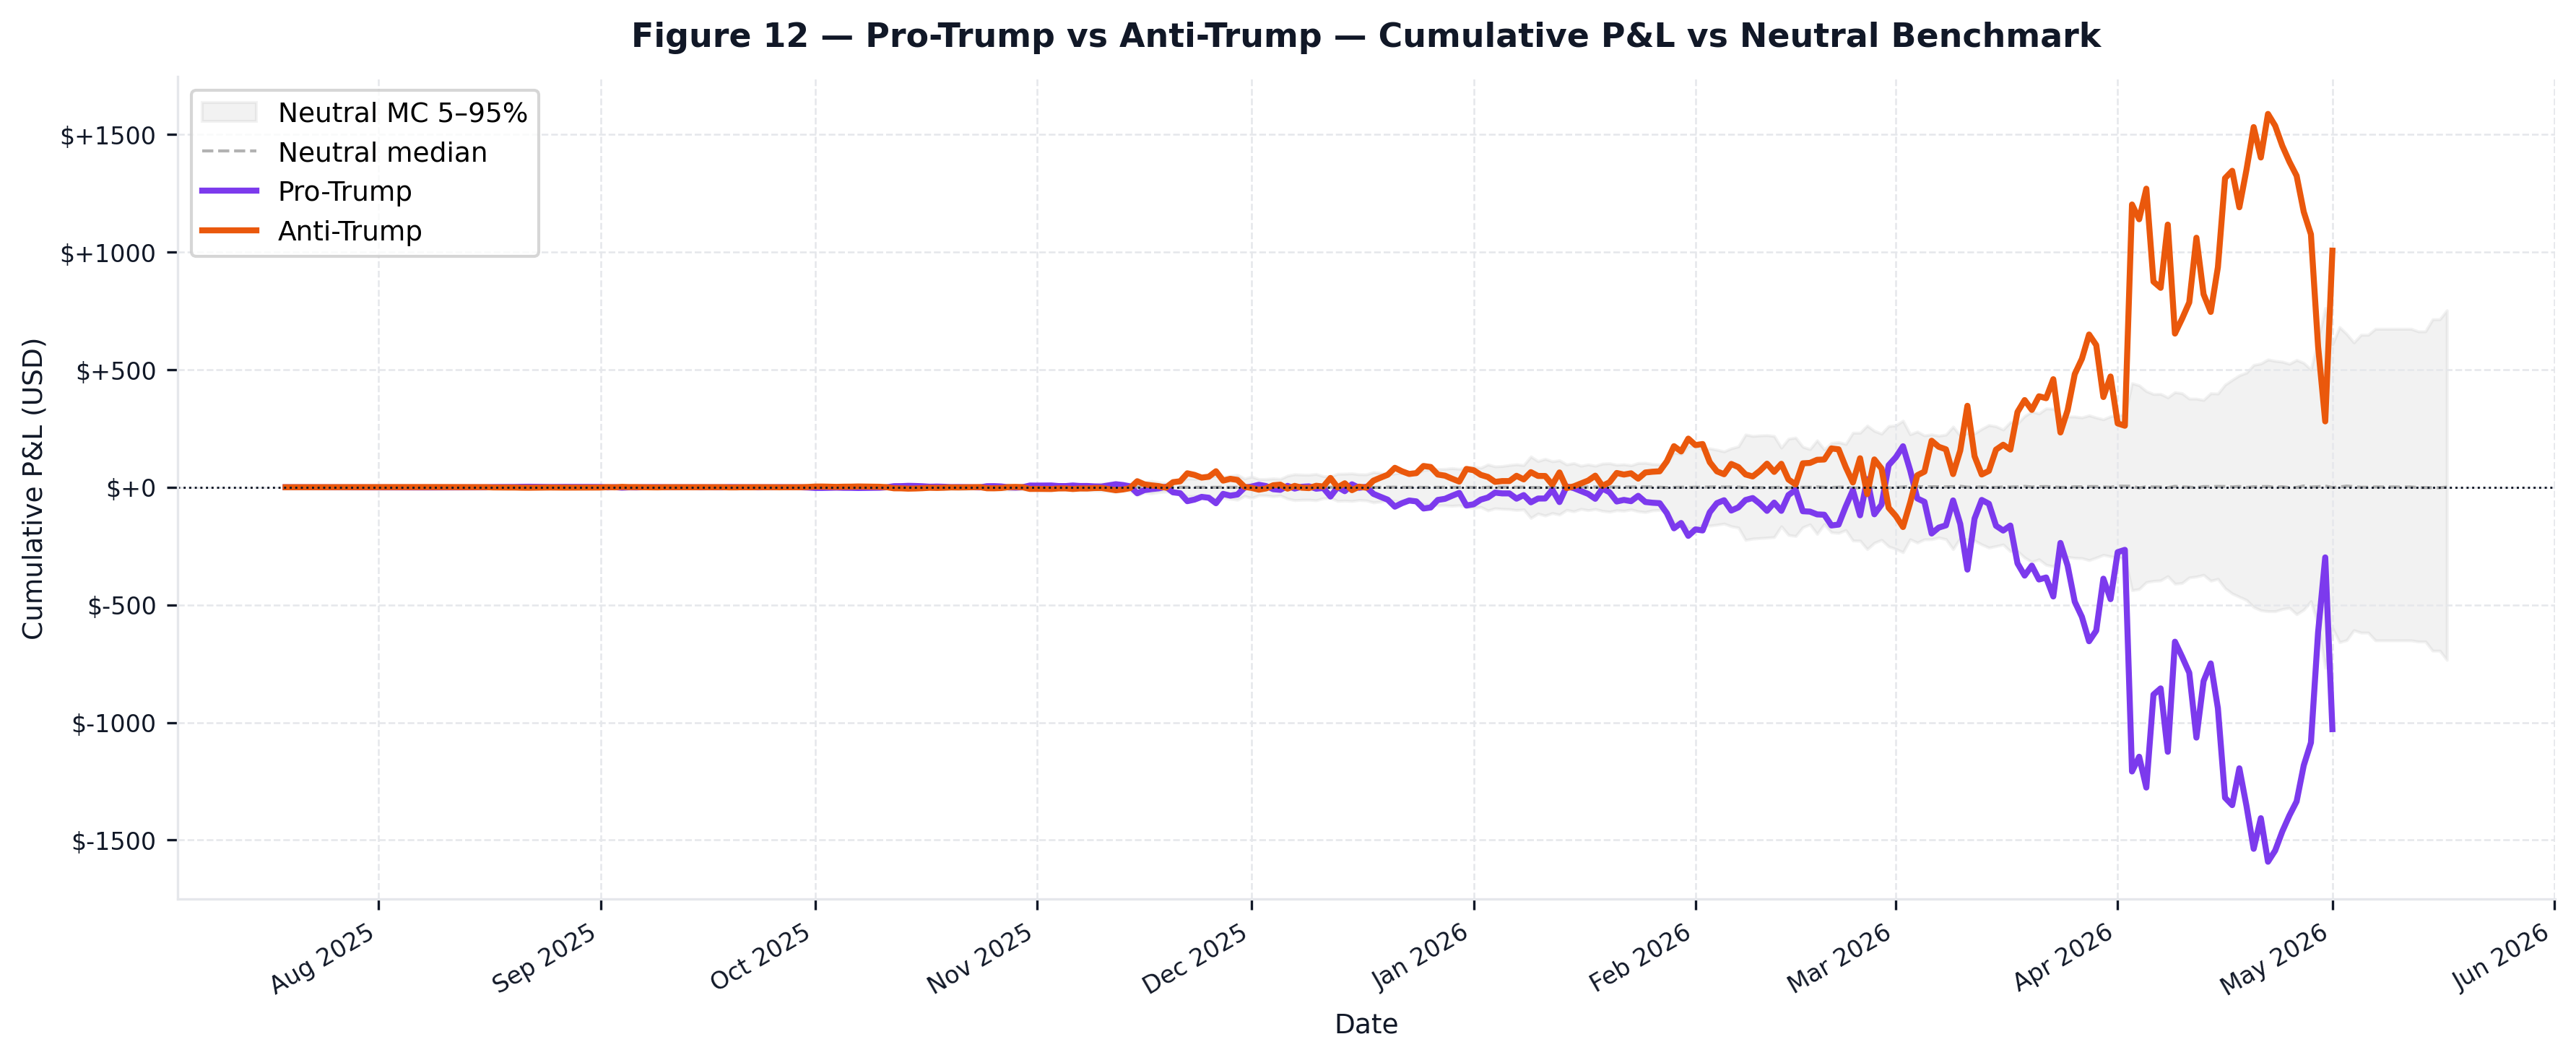
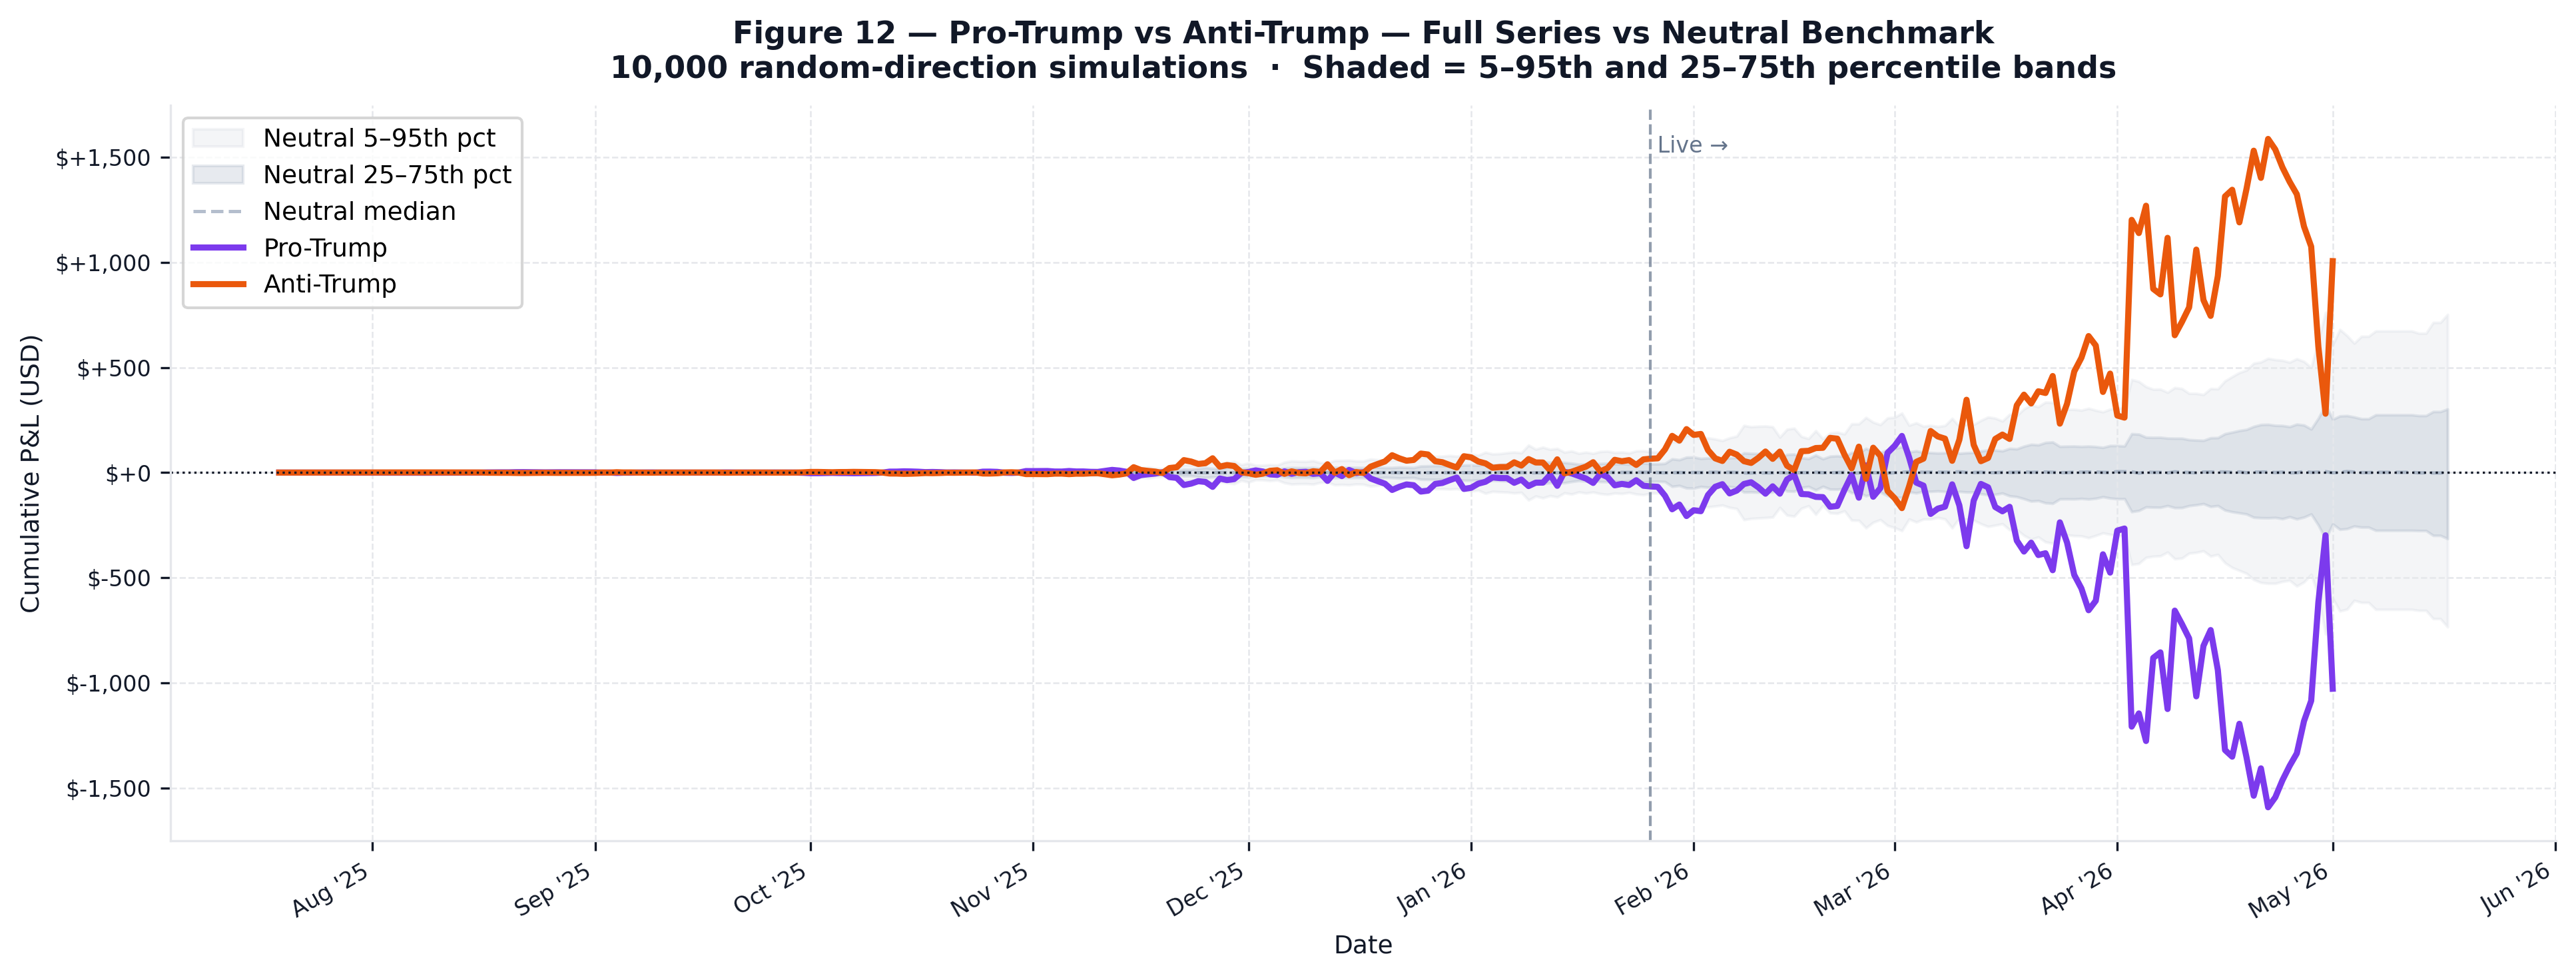
Add full-series combined MC chart and neutral strategy stats to MC tab
- fig12 now shows both pro-Trump and anti-Trump full series (287 days)
  against the neutral benchmark fan with 5-95th and 25-75th bands,
  prospective divider, and improved formatting
- Export mc_neutral_summary.csv: avg final P&L, median, P5/P95
- API exposes mc_avg_final_pnl, mc_median_final_pnl, mc_p5/p95_final_pnl
- MC tab now shows the combined fig12 chart plus two rows of stat tiles:
  directional strategy stats and neutral benchmark averages

diff --git a/frontend/src/pages/Analysis.jsx b/frontend/src/pages/Analysis.jsx
@@ -1107,37 +1107,71 @@ export default function Analysis() {
             </div>
           </Card>
 
-          {/* Static stats tiles */}
+          {/* Strategy stats tiles */}
           {mcBenchmark && (
-            <div className="grid grid-cols-2 sm:grid-cols-4 gap-3">
-              <MetricTile
-                label="Pro-Trump Mean Return"
-                value={fmtPct(mcBenchmark.pro_mean_pct, 4)}
-                sub="Actual daily mean"
-                color={mcBenchmark.pro_mean_pct >= 0 ? C_GAIN : C_LOSS}
-                formula="mean of daily_return for 96-day prospective series"
-              />
-              <MetricTile
-                label="Anti-Trump Mean Return"
-                value={fmtPct(mcBenchmark.anti_mean_pct, 4)}
-                sub="Counterfactual daily mean"
-                color={mcBenchmark.anti_mean_pct >= 0 ? C_GAIN : C_LOSS}
-                formula="same trades, flipped YES↔NO direction"
-              />
-              <MetricTile
-                label="Pro-Trump Percentile"
-                value={`${mcBenchmark.pct_rank.toFixed(1)}th`}
-                sub={`of ${mcBenchmark.n_sims.toLocaleString()} neutral sims`}
-                color={mcBenchmark.pct_rank <= 5 ? C_LOSS : "#111827"}
-                formula="% of neutral sims with lower mean return"
-              />
-              <MetricTile
-                label="Anti-Trump Percentile"
-                value={mcBenchmark.anti_pct_rank != null ? `${mcBenchmark.anti_pct_rank.toFixed(1)}th` : "—"}
-                sub={`of ${mcBenchmark.n_sims.toLocaleString()} neutral sims`}
-                color={mcBenchmark.anti_pct_rank >= 95 ? C_GAIN : "#111827"}
-                formula="% of neutral sims with lower mean return"
-              />
+            <div className="space-y-3">
+              <p className="text-xs font-semibold text-slate-500 uppercase tracking-wide">Directional Strategies (96-day prospective series)</p>
+              <div className="grid grid-cols-2 sm:grid-cols-4 gap-3">
+                <MetricTile
+                  label="Pro-Trump Mean Return"
+                  value={fmtPct(mcBenchmark.pro_mean_pct, 4)}
+                  sub="Daily mean · prospective"
+                  color={mcBenchmark.pro_mean_pct >= 0 ? C_GAIN : C_LOSS}
+                  formula="mean of daily_return for 96-day prospective series"
+                />
+                <MetricTile
+                  label="Anti-Trump Mean Return"
+                  value={fmtPct(mcBenchmark.anti_mean_pct, 4)}
+                  sub="Daily mean · prospective"
+                  color={mcBenchmark.anti_mean_pct >= 0 ? C_GAIN : C_LOSS}
+                  formula="same trades, flipped YES↔NO direction"
+                />
+                <MetricTile
+                  label="Pro-Trump Percentile"
+                  value={`${mcBenchmark.pct_rank.toFixed(1)}th`}
+                  sub={`of ${mcBenchmark.n_sims.toLocaleString()} neutral sims`}
+                  color={mcBenchmark.pct_rank <= 5 ? C_LOSS : "#111827"}
+                  formula="% of neutral sims with lower mean return"
+                />
+                <MetricTile
+                  label="Anti-Trump Percentile"
+                  value={mcBenchmark.anti_pct_rank != null ? `${mcBenchmark.anti_pct_rank.toFixed(1)}th` : "—"}
+                  sub={`of ${mcBenchmark.n_sims.toLocaleString()} neutral sims`}
+                  color={mcBenchmark.anti_pct_rank >= 95 ? C_GAIN : "#111827"}
+                  formula="% of neutral sims with lower mean return"
+                />
+              </div>
+              <p className="text-xs font-semibold text-slate-500 uppercase tracking-wide pt-1">Neutral Benchmark Average (across {mcBenchmark.n_sims.toLocaleString()} simulations)</p>
+              <div className="grid grid-cols-2 sm:grid-cols-4 gap-3">
+                <MetricTile
+                  label="Neutral Mean Daily Return"
+                  value={fmtPct(mcBenchmark.mc_mean * 100, 4)}
+                  sub="Avg across all neutral sims"
+                  color="#111827"
+                  formula="mean of mean_return_sim across 10,000 simulations"
+                />
+                <MetricTile
+                  label="Neutral Avg Final P&L"
+                  value={mcBenchmark.mc_avg_final_pnl != null ? `$${mcBenchmark.mc_avg_final_pnl.toFixed(2)}` : "—"}
+                  sub="Avg cumulative P&L at end"
+                  color={mcBenchmark.mc_avg_final_pnl >= 0 ? C_GAIN : C_LOSS}
+                  formula="mean of final P&L across 10,000 simulations"
+                />
+                <MetricTile
+                  label="Neutral P5 Final P&L"
+                  value={mcBenchmark.mc_p5_final_pnl != null ? `$${mcBenchmark.mc_p5_final_pnl.toFixed(2)}` : "—"}
+                  sub="5th percentile outcome"
+                  color={C_LOSS}
+                  formula="5th percentile of final P&L across 10,000 simulations"
+                />
+                <MetricTile
+                  label="Neutral P95 Final P&L"
+                  value={mcBenchmark.mc_p95_final_pnl != null ? `$${mcBenchmark.mc_p95_final_pnl.toFixed(2)}` : "—"}
+                  sub="95th percentile outcome"
+                  color={C_GAIN}
+                  formula="95th percentile of final P&L across 10,000 simulations"
+                />
+              </div>
             </div>
           )}
 
@@ -1206,7 +1240,24 @@ export default function Analysis() {
             </Card>
           )}
 
-          {/* Precomputed figures — Pro-Trump and Anti-Trump side by side */}
+          {/* Combined full-series chart — both strategies vs MC fan */}
+          {figures.find((f) => f.filename === "fig12_strategy_comparison.png")?.exists && (
+            <Card className="overflow-hidden">
+              <div className="p-4 border-b border-slate-100">
+                <p className="text-sm font-semibold text-slate-700">Full Series — Pro-Trump &amp; Anti-Trump vs Neutral Benchmark</p>
+                <p className="text-xs text-slate-400 mt-0.5">
+                  Both strategies plotted against the 10,000-simulation neutral fan (5–95th and 25–75th percentile bands) across the full 287-day observation window.
+                </p>
+              </div>
+              <img
+                src={getAnalysisFigureUrl("fig12_strategy_comparison.png")}
+                alt="Full series both strategies vs neutral benchmark"
+                className="w-full object-contain"
+              />
+            </Card>
+          )}
+
+          {/* Per-strategy MC benchmark figures */}
           {figures.some((f) => (f.filename === "fig11_mc_benchmark.png" || f.filename === "fig11_mc_benchmark_anti.png") && f.exists) && (
             <div className="space-y-4">
               {figures.find((f) => f.filename === "fig11_mc_benchmark.png")?.exists && (

diff --git a/backend/analysis/run_analysis.py b/backend/analysis/run_analysis.py
@@ -1349,30 +1349,40 @@ def fig11_mc_benchmark(mean_return_sims, dr_sims, r_strategy, date_range_mc, pct
     save_fig(fig, filename)
 
 
-def fig12_strategy_comparison(curve_pro, curve_anti, pnl_sims_mc, date_range):
-    fig, ax = plt.subplots(figsize=(12, 5))
+def fig12_strategy_comparison(curve_pro, curve_anti, pnl_sims_mc, date_range, prosp_start=None):
+    fig, ax = plt.subplots(figsize=(13, 5))
 
     dr = pd.to_datetime(date_range)
     p5  = np.percentile(pnl_sims_mc, 5,  axis=0)
+    p25 = np.percentile(pnl_sims_mc, 25, axis=0)
+    p75 = np.percentile(pnl_sims_mc, 75, axis=0)
     p95 = np.percentile(pnl_sims_mc, 95, axis=0)
     p50 = np.percentile(pnl_sims_mc, 50, axis=0)
 
-    ax.fill_between(dr, p5, p95, alpha=0.10, color="gray", label="Neutral MC 5–95%")
-    ax.plot(dr, p50, color="gray", lw=1, linestyle="--", alpha=0.6, label="Neutral median")
+    ax.fill_between(dr, p5,  p95, alpha=0.10, color="#94a3b8", label="Neutral 5–95th pct")
+    ax.fill_between(dr, p25, p75, alpha=0.22, color="#94a3b8", label="Neutral 25–75th pct")
+    ax.plot(dr, p50, color="#94a3b8", lw=1.2, linestyle="--", alpha=0.7, label="Neutral median")
 
-    ax.plot(pd.to_datetime(curve_pro["date"]),  curve_pro["total_pnl"],  color=C_PRO,  lw=2.0, label="Pro-Trump")
-    ax.plot(pd.to_datetime(curve_anti["date"]), curve_anti["total_pnl"], color=C_ANTI, lw=2.0, label="Anti-Trump")
-    ax.axhline(0, color=C_TEXT, lw=0.7, linestyle=":")
+    ax.plot(pd.to_datetime(curve_pro["date"]),  curve_pro["total_pnl"],  color=C_PRO,  lw=2.2, label="Pro-Trump")
+    ax.plot(pd.to_datetime(curve_anti["date"]), curve_anti["total_pnl"], color=C_ANTI, lw=2.2, label="Anti-Trump")
+    ax.axhline(0, color=C_TEXT, lw=0.8, linestyle=":")
 
-    ax.xaxis.set_major_formatter(mdates.DateFormatter("%b %Y"))
+    if prosp_start:
+        ax.axvline(pd.to_datetime(prosp_start), color="#64748b", linewidth=1.0, linestyle="--", alpha=0.7)
+        ylim = ax.get_ylim()
+        ax.text(pd.to_datetime(prosp_start), ylim[1] * 0.92,
+                " Live →", fontsize=8, color="#64748b", va="top")
+
+    ax.xaxis.set_major_formatter(mdates.DateFormatter("%b '%y"))
     ax.xaxis.set_major_locator(mdates.MonthLocator())
     plt.setp(ax.get_xticklabels(), rotation=30, ha="right", fontsize=8)
-    ax.yaxis.set_major_formatter(mticker.FuncFormatter(lambda v, _: f"${v:+.0f}"))
+    ax.yaxis.set_major_formatter(mticker.FuncFormatter(lambda v, _: f"${v:+,.0f}"))
 
     style_ax(ax,
-        title="Figure 12 — Pro-Trump vs Anti-Trump — Cumulative P&L vs Neutral Benchmark",
+        title="Figure 12 — Pro-Trump vs Anti-Trump — Full Series vs Neutral Benchmark\n"
+              "10,000 random-direction simulations  ·  Shaded = 5–95th and 25–75th percentile bands",
         xlabel="Date", ylabel="Cumulative P&L (USD)")
-    ax.legend(fontsize=9)
+    ax.legend(fontsize=9, loc="upper left")
 
     fig.tight_layout()
     save_fig(fig, "fig12_strategy_comparison.png")
@@ -1385,7 +1395,8 @@ def export_results(curve_clean, curve_full, mkt_pnl, metrics, output_dir,
                    r_protrump=None, r_neutral_mean=None,
                    pct_rank_mc=None,
                    curve_clean_anti=None, curve_full_anti=None,
-                   metrics_anti=None, pct_rank_mc_anti=None):
+                   metrics_anti=None, pct_rank_mc_anti=None,
+                   pnl_sims_mc=None):
     # Equity curves
     curve_clean.to_csv(output_dir / "equity_curve_clean.csv", index=False)
     curve_full.to_csv( output_dir / "equity_curve_full.csv",  index=False)
@@ -1420,6 +1431,17 @@ def export_results(curve_clean, curve_full, mkt_pnl, metrics, output_dir,
     if mean_return_sims is not None:
         pd.DataFrame({"mean_return_sim": mean_return_sims}).to_csv(
             output_dir / "mc_neutral_means.csv", index=False)
+
+    # MC neutral summary stats
+    if pnl_sims_mc is not None and mean_return_sims is not None:
+        final_pnls = pnl_sims_mc[:, -1]
+        pd.DataFrame([{
+            "mc_mean_daily_return": float(mean_return_sims.mean()),
+            "mc_avg_final_pnl":     float(final_pnls.mean()),
+            "mc_p5_final_pnl":      float(np.percentile(final_pnls, 5)),
+            "mc_p95_final_pnl":     float(np.percentile(final_pnls, 95)),
+            "mc_median_final_pnl":  float(np.median(final_pnls)),
+        }]).to_csv(output_dir / "mc_neutral_summary.csv", index=False)
 
     # Abnormal returns series
     if ar_series is not None and r_protrump is not None and r_neutral_mean is not None:
@@ -1520,7 +1542,7 @@ def main():
     if len(curve_retro) > 5:
         fig10_retro_vs_prosp(curve_retro, curve_prosp)
     fig11_mc_benchmark(mean_sims, dr_sims, r_protrump, mc_date_range, pct_rank_mc)
-    fig12_strategy_comparison(curve_full, curve_full_anti, pnl_sims_mc, mc_date_range)
+    fig12_strategy_comparison(curve_full, curve_full_anti, pnl_sims_mc, mc_date_range, prosp_start=PROSPECTIVE_START)
 
     # Anti-Trump figures
     fig1_equity_curve(curve_full_anti, prosp_start=PROSPECTIVE_START,
@@ -1550,7 +1572,8 @@ def main():
                    r_protrump=r_protrump, r_neutral_mean=r_neutral_mean,
                    pct_rank_mc=pct_rank_mc,
                    curve_clean_anti=curve_clean_anti, curve_full_anti=curve_full_anti,
-                   metrics_anti=metrics_anti, pct_rank_mc_anti=pct_rank_mc_anti)
+                   metrics_anti=metrics_anti, pct_rank_mc_anti=pct_rank_mc_anti,
+                   pnl_sims_mc=pnl_sims_mc)
 
     print("\n" + "═" * 70)
     print("  ANALYSIS COMPLETE")

diff --git a/backend/api/analysis.py b/backend/api/analysis.py
@@ -184,7 +184,7 @@ async def get_metrics():
             {"x": round(float((lo + hi) / 2), 5), "count": int(cnt)}
             for cnt, lo, hi in zip(counts, edges[:-1], edges[1:])
         ]
-        result["mc_benchmark"] = {
+        mc_benchmark = {
             "n_sims":        int(len(sims)),
             "mc_mean":       round(float(sims.mean()), 8),
             "mc_std":        round(float(sims.std()),  8),
@@ -192,11 +192,19 @@ async def get_metrics():
             "mc_p95":        round(float(np.percentile(sims, 95)), 8),
             "pct_rank":      round(float(metrics.get("mc_pct_rank", 0)), 2),
             "histogram":     mc_histogram,
-            # Mean returns in % for reference lines on histogram
             "pro_mean_pct":  round(float(metrics.get("mean_daily_return", 0)) * 100, 6),
             "anti_mean_pct": round(float(anti_m.get("mean_daily_return", 0)) * 100, 6),
             "anti_pct_rank": round(float(anti_m.get("mc_pct_rank", 100)), 2),
         }
+        # Augment with neutral summary stats if available
+        mc_summary_path = OUTPUT_DIR / "mc_neutral_summary.csv"
+        if mc_summary_path.exists():
+            s = pd.read_csv(mc_summary_path).iloc[0]
+            mc_benchmark["mc_avg_final_pnl"]    = round(float(s["mc_avg_final_pnl"]),    4)
+            mc_benchmark["mc_median_final_pnl"] = round(float(s["mc_median_final_pnl"]), 4)
+            mc_benchmark["mc_p5_final_pnl"]     = round(float(s["mc_p5_final_pnl"]),     4)
+            mc_benchmark["mc_p95_final_pnl"]    = round(float(s["mc_p95_final_pnl"]),    4)
+        result["mc_benchmark"] = mc_benchmark
     if ar_path.exists():
         ar_df = pd.read_csv(ar_path)
         result["abnormal_returns_series"] = ar_df[["ar", "r_protrump", "r_neutral_mean"]].to_dict("records")